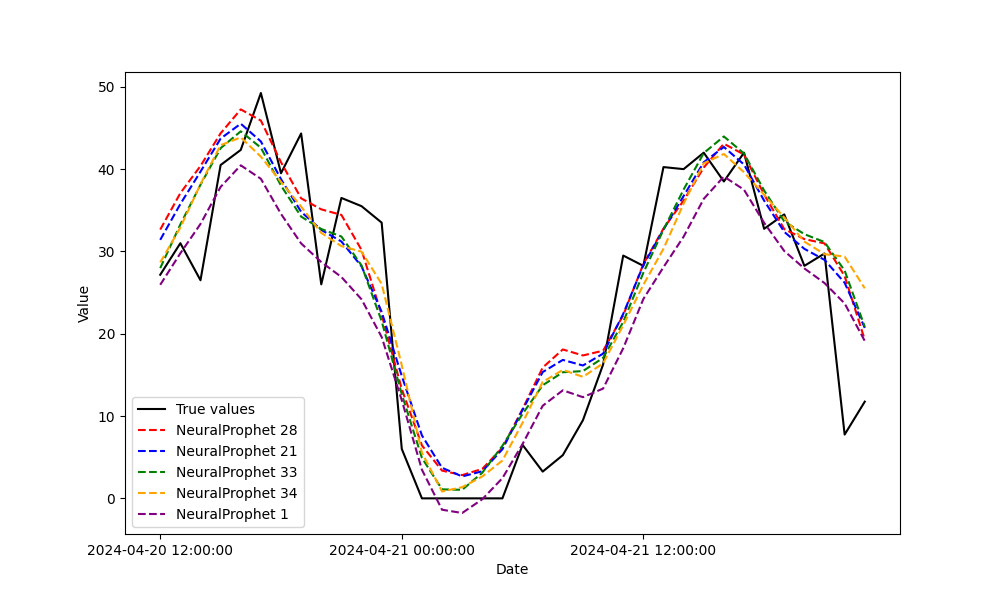
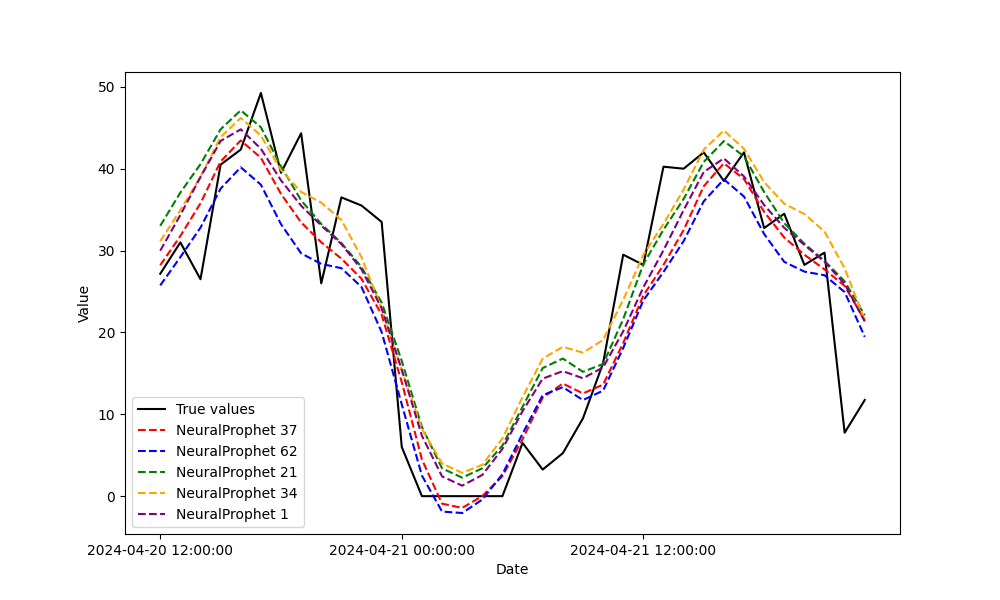
new forecasts and results for np

diff --git a/src/refit_prophet.py b/src/refit_prophet.py
@@ -69,7 +69,7 @@ def main():
     df = impute_missing(df, method='rolling', window=24)
 
     # load the results file from the grid search
-    np_results = pd.read_csv(neuralprophet_path / 'np_gridsearch_20240516_160815.csv')
+    np_results = pd.read_csv(neuralprophet_path / 'np_gridsearch_20240517_140347.csv')
 
     # select top n models based on validation rmse
     top_n_models = 5
